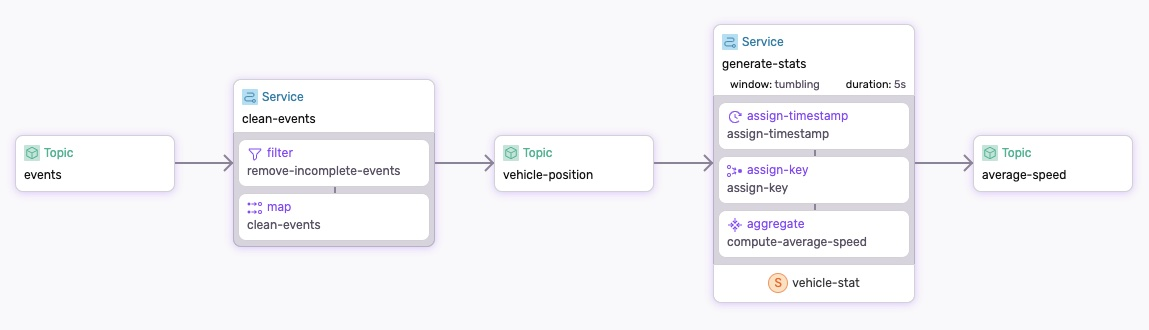
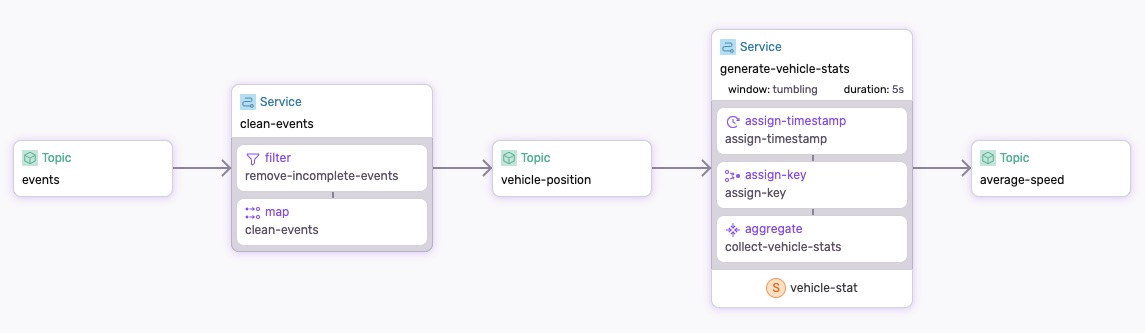
update readme

diff --git a/dataflows/helsinki-transit/README.md b/dataflows/helsinki-transit/README.md
@@ -9,6 +9,111 @@ The following diagram is a visual representation generated by `sdf`:
  <img src="img/helsinki-transit.jpg">
 </p>
 
+The dataflow has two services:
+* `clean-events` removes events with incomplete data
+* `generate-vehicle-stats` generates average speed per vehicle every 5 seconds.
+
+The purpose of the dataflow is to demonstrate how to use the SQL interface to analyze the data.
+
+
+## Step-by-step
+
+Take a look at the [dataflow.yaml](./dataflow.yaml) to get an idea of what we're doing.
+
+Make sure to [Install SDF  Start a Cluster].
+
+### 1. Run the Dataflow
+
+Use `sdf` command line tool to run the dataflow:
+
+```bash
+sdf run --ui
 ```
-sdf run
+
+* Use `--ui` to generate the graphical representation and run the Studio.
+* Using `sdf run` as opposed to `sdf deploy` will run the dataflow with an ephemeral worker, which will be cleaned up on exit.
+
+
+### 2. Start the mqtt connector:
+
+In a new terminal change directory to `./connectors`, download the connector binary, and start connector:
+
+```bash
+cd ./connectors
+fluvio hub smartmodule download infinyon/jolt@0.4.1
+cdk hub download infinyon/infinyon/mqtt-source@0.2.9
+cdk deploy start --ipkg infinyon-mqtt-source-0.2.9.ipkg -c mqtt-helsinki.yaml
 ```
+
+To see the events, run `fluvio consume helsinki`.
+
+For additional context, checkout [connectors](./connectors/).
+
+
+### 3. Check the results
+
+In the `sdf` terminal, checkout the state maintained by the dataflow:
+
+```bash
+show state
+```
+
+We are interested in the following state:
+
+```bash
+show state generate-vehicle-stats/vehicle-stat/state
+```
+
+#### Use SQL to query the state
+
+Let's say we want to analyze the top 10 vehicles by average speed. We can use the SQL interface to query the state.
+
+To enter the SQL interface, run:
+
+```bash
+>> sql
+```
+
+Let's start by showing the tables:
+
+```sql
+show tables
+```
+
+There are two tables, but in this example we are interested in the `license_plates` table.
+Let's run a simple select:
+
+```sql
+select * from vehicle_stat
+```
+
+Now we can look-up top 5 vehicles by speed:
+
+```sql
+select * from vehicle_stat order by speed desc limit 5
+```
+
+When you are done, exit the SQL interface with `.exit`.
+
+
+#### Check the output topic
+
+In our dataflow example, we are producing the average speed for all vehicles to the `average-speed` topic.
+
+```bash
+fluvio consume average-speed -O json
+```
+
+If we decide to change the dataflow to give us the top 5 vehicles by speed, all we need to do is update the SQL statement in the `collect_vehicle_stats` function:
+
+```rust
+let vs = sql("select * from vehicle_stat order by speed desc limit 5")?;
+```
+
+Then run the service again using `sdf run`.  Checking the output again, you will notice that the output has changeed. It only returns the top 5 vehicles by speed:
+
+```bash
+fluvio consume average-speed -O json
+```
+
+:tada: Congratulations! You have just learned how to use the SQL interface to analyze the data and improve your dataflow based on your analysis.

diff --git a/dataflows/car-processing/README.MD b/dataflows/car-processing/README.MD
@@ -71,8 +71,6 @@ sdf run --ui
 * Use `--ui` to generate the graphical representation and run the Studio.
 * Using `sdf run` as opposed to `sdf deploy` will run the dataflow with an ephemeral worker, which will be cleaned up on exit.
 
-**Note:** The `check-license-plates` service uses Polars, a library that has not yet been optimized, and will it make take a while the compile. We'll optimize this in a future release.
-
 
 ### 2. Read the licenses:
 
@@ -87,8 +85,7 @@ To see the licenses, run `fluvio consume licenses -Bd -O json`.
 
 ### 3. Start the car connector:
 
-
-In a new terminal change directory to `./connectors`, download the connector binary, and start 2 connectors:
+In a new terminal change directory to `./connectors`, download the connector binary, and start connector:
 
 ```bash
 cd ./connectors

diff --git a/dataflows/bank-processing/README.MD b/dataflows/bank-processing/README.MD
@@ -39,8 +39,6 @@ sdf run --ui
 
 Use `--ui` to open the Studio.
 
-**Note:** The `transfer-service` uses Polars, a library that has not yet been optimized, and will it make take a while the compile. We'll optimize this in a future release.
-
 
 ### 2. Test the Dataflow
 

diff --git a/dataflows/word-probe/README.MD b/dataflows/word-probe/README.MD
@@ -32,8 +32,6 @@ sdf run --ui
 
 Use `--ui` to open the Studio.
 
-**Note:** The `lookup-word` service uses Polars, a library that has not yet been optimized, and will it make take a while the compile. We'll optimize this in a future release.
-
 
 ### Test the Dataflow
 
